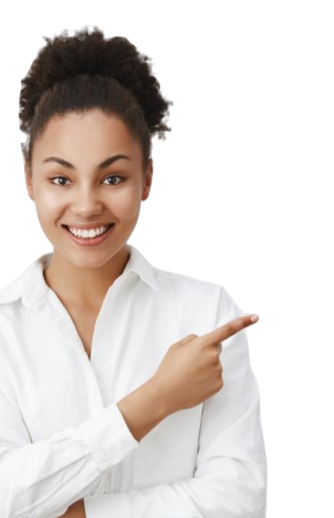
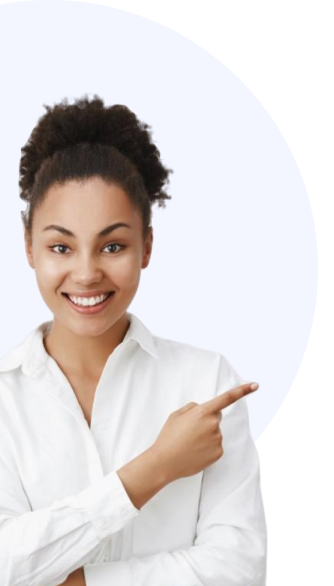
changes to landing page

diff --git a/src/pages/Dashboard/Admin/leads/index.jsx b/src/pages/Dashboard/Admin/leads/index.jsx
@@ -140,6 +140,7 @@ function HomepageHero({ name}){
                             <th>S/N</th>
                             <th>Name</th>
                             <th>Email</th>
+                            <th>Phone</th>
                             <th>Program</th>
                         </tr>
                     </thead>
@@ -151,6 +152,7 @@ function HomepageHero({ name}){
                                     <td>{index + 1}</td>
                                     <td>{item.fullName}</td>
                                     <td>{item.email}</td>
+                                    <td>{item.phone}</td>
                                     <td>{item.program}</td>
                                 </tr>
                             ))

diff --git a/src/pages/Landing/landing.style.js b/src/pages/Landing/landing.style.js
@@ -16,6 +16,9 @@ export const HomeComponent = styled.section`
     background-size: 13rem, 22rem;
     color: var(--theme-blue);
 
+    @media screen and (max-width: 750px){
+        background-size: 11rem, 17rem;
+    }
 
     @media screen and (max-width: 657px){
         background:#fff;
@@ -54,6 +57,16 @@ export const Center = styled.section`
         background-color: #fff;
         color: var(--theme-blue);
 
+    }
+
+    @media screen and (max-width: 750px){
+        justify-content:start;
+        padding-top: 5.1rem;
+
+    }
+
+    @media screen and (max-width: 657px){
+        justify-content:center;
     }
 
 `

diff --git a/src/pages/Landing/Navbar.jsx b/src/pages/Landing/Navbar.jsx
@@ -191,7 +191,7 @@ return (
                         </Link>
                         {/* </a> */}
                         <Link to="/learn-with-gotocourse" className="d-inline-flex">
-                            <button>For Students</button>
+                            <button>For Learners</button>
                         </Link>
                     </div>
                 </ul>

diff --git a/src/pages/Landing/landing.jsx b/src/pages/Landing/landing.jsx
@@ -33,7 +33,7 @@ const NewHome = () => {
             </Link>
             {/* </a> */}
             <Link to="/learn-with-gotocourse">
-              <button>I'm a student</button>
+              <button>I'm a Learner</button>
             </Link>
           </div>
         </Center>
